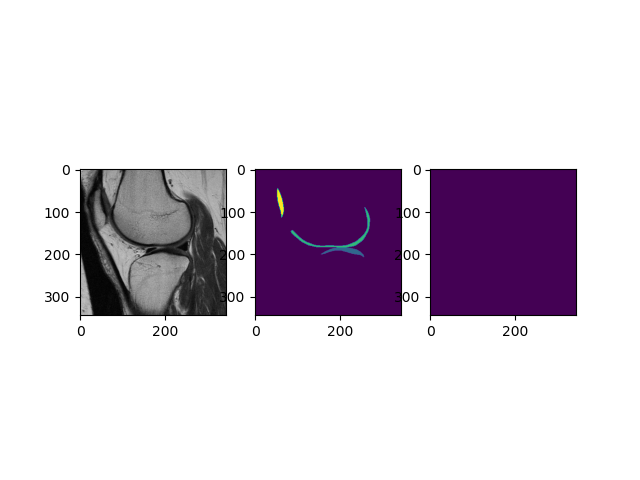
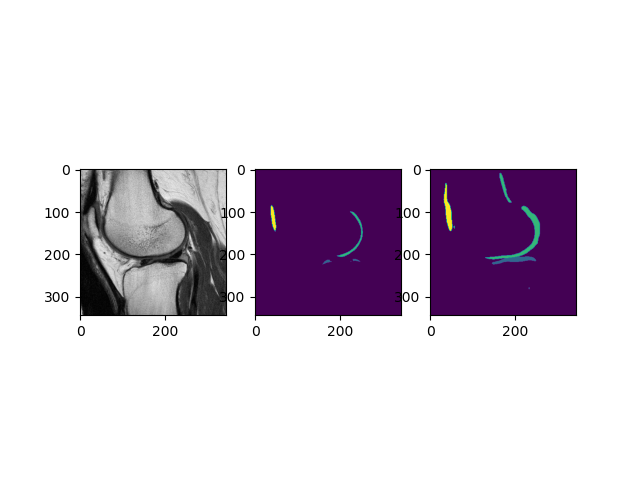
edit

diff --git a/utils.py b/utils.py
@@ -163,10 +163,14 @@ def dice_loss_weighted(Y_hat, Y, exp=0.5, smooth=1e-10):
         Y[:, i, :, :] = Y[:, i, :, :] * (safe_div(background_sum, Y[:, i, :, :].sum(), 1) ** exp)
     return dice_loss_normal(Y_hat, Y)
 
-def per_class_dice(Y_hat, Y, tolist=True, p=2):
+def per_class_dice(Y_hat, Y, tolist=True, p=2, repr=''):
     assert Y_hat.size() == Y.size()
     Y, Y_hat = batch_and_class_flatten(Y), batch_and_class_flatten(Y_hat) # [N, C, flat]
     dice = 2 * (((Y * Y_hat).sum(-1)) / (Y.pow(p).sum(-1) + Y_hat.pow(p).sum(-1))).mean(0).squeeze()
+    if repr == '-log':
+        dice = -torch.log(dice)
+    elif repr == '1-':
+        dice = 1 - dice
     if tolist:
         dice = dice.tolist()
     return dice
@@ -232,7 +236,8 @@ losses = {
     'dice': dice_loss_normal,
     'weighted_dice': dice_loss_weighted,
     'nll': nn.NLLLoss(),
-    'per_class': DiceLoss()
+    'per_class': DiceLoss(),
+    'native_per_class': per_class_dice
 }
 
 

diff --git a/configs.py b/configs.py
@@ -2,7 +2,7 @@ default_configs = {
     'balanced_batch_size': 8,
     'all_source_batch_size': 16,
     'learning_rate':  1e-4,
-    'seg_loss': 'per_class',
+    'seg_loss': 'native_per_class',
     'domain_loss': 'nll',
     'weight_decay': 1,
     'print_progress': True,
